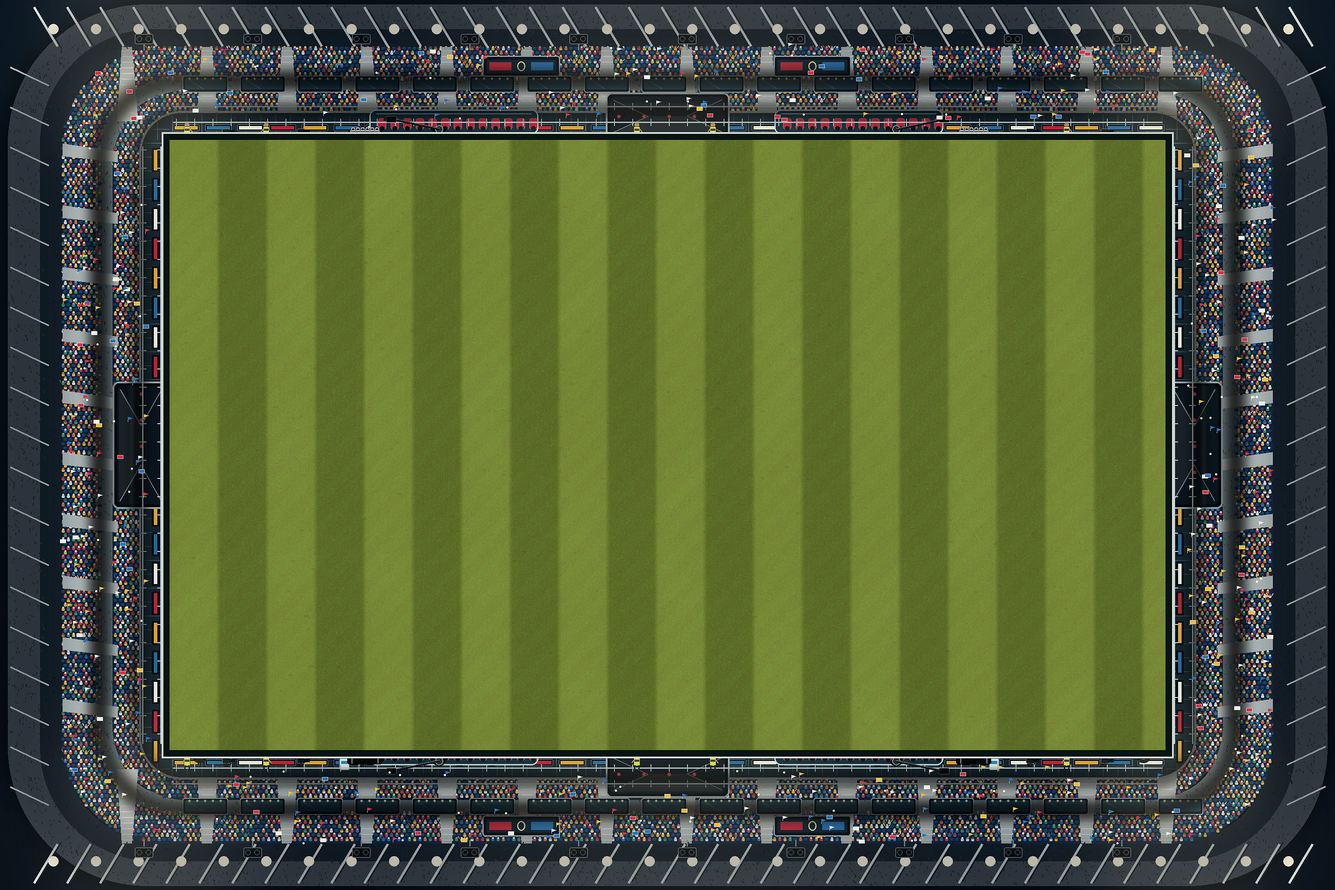
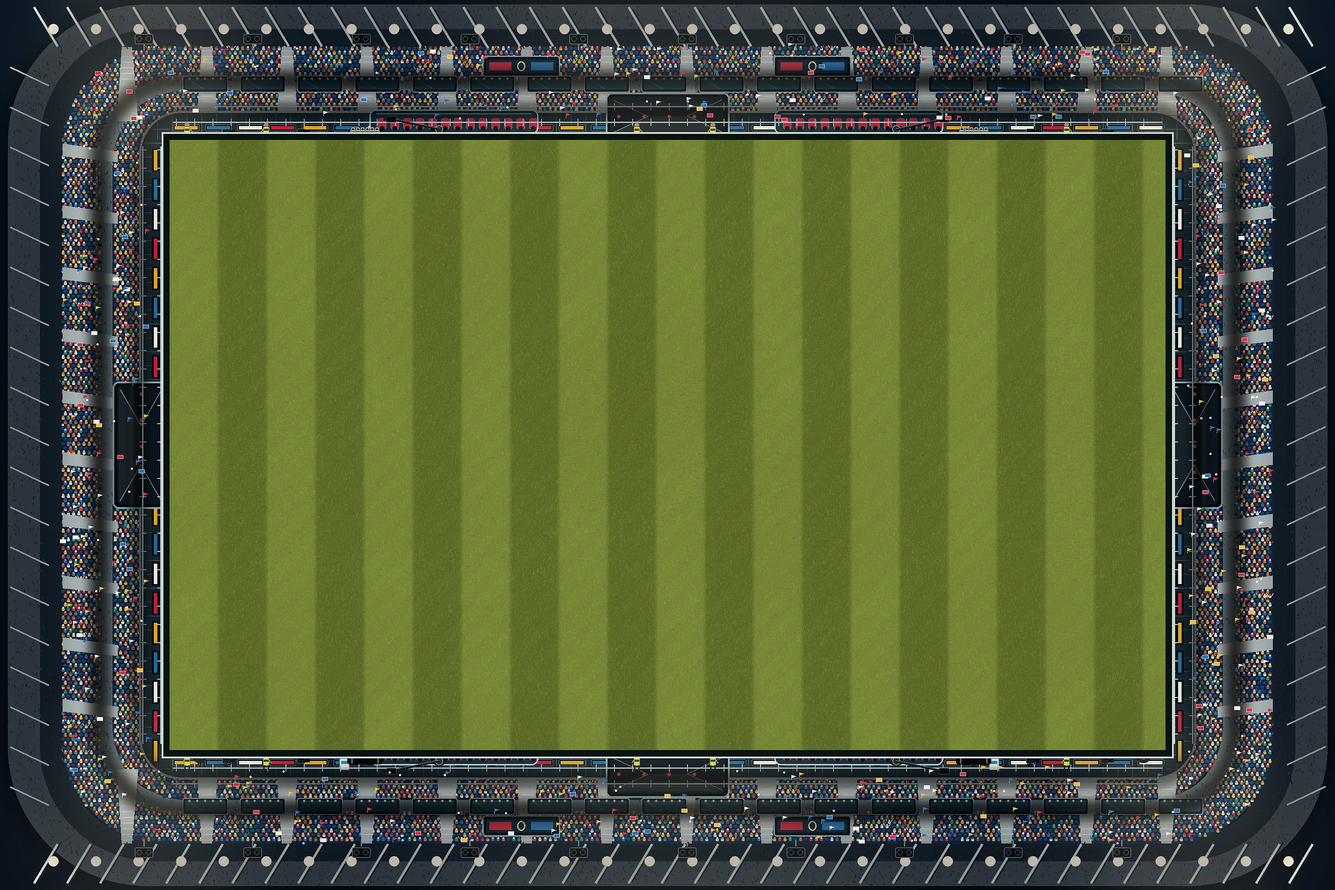
feat: add directional turf fibre detail

diff --git a/src/game/render.ts b/src/game/render.ts
@@ -831,6 +831,35 @@ export class Renderer {
     ctx.beginPath();
     ctx.arc(ARENA_W - 40 - 230, ARENA_H / 2, 150, Math.PI - Math.PI / 3.2, Math.PI + Math.PI / 3.2);
     ctx.stroke();
+
+    // A sparse upper nap makes the white paint belong to the grass instead of
+    // reading as a perfectly vector-clean HUD line. All marks are deterministic
+    // and stay sub-pixel at normal gameplay zoom.
+    const paintedFibre = (x: number, y: number, dx: number, dy: number): void => {
+      ctx.strokeStyle = 'rgba(255,255,246,0.20)';
+      ctx.lineWidth = 0.85;
+      ctx.beginPath();
+      ctx.moveTo(x, y);
+      ctx.lineTo(x + dx, y + dy);
+      ctx.stroke();
+    };
+    for (let y = 48; y < ARENA_H - 45; y += 29) {
+      const jitter = ((y * 17) % 9) - 4;
+      paintedFibre(40 + jitter * 0.18, y, jitter * 0.09, 3.8);
+      paintedFibre(ARENA_W - 40 + jitter * 0.16, y + 7, -jitter * 0.08, 3.4);
+      paintedFibre(ARENA_W / 2 + jitter * 0.12, y + 13, jitter * 0.06, 3.7);
+    }
+    for (let x = 48; x < ARENA_W - 45; x += 31) {
+      const jitter = ((x * 13) % 11) - 5;
+      paintedFibre(x, 40 + jitter * 0.12, 3.5, jitter * 0.08);
+      paintedFibre(x + 11, ARENA_H - 40 + jitter * 0.11, 3.8, -jitter * 0.07);
+    }
+    for (let angle = 0; angle < TAU; angle += 0.17) {
+      const radius = 190 + ((Math.floor(angle * 100) * 7) % 5) - 2;
+      const x = ARENA_W / 2 + Math.cos(angle) * radius;
+      const y = ARENA_H / 2 + Math.sin(angle) * radius;
+      paintedFibre(x, y, Math.cos(angle + 0.34) * 3.2, Math.sin(angle + 0.34) * 3.2);
+    }
     ctx.shadowColor = 'transparent';
     ctx.shadowBlur = 0;
     ctx.shadowOffsetY = 0;

diff --git a/scripts/generate_world_cup_arenas.py b/scripts/generate_world_cup_arenas.py
@@ -498,8 +498,8 @@ def _grass_texture(style: str, seed: int) -> Image.Image:
         # Measured from the approved olive broadcast-pitch reference. The
         # red/blue balance is intentionally warmer and less neon than generic
         # game grass; 112px runtime-source bands reproduce its tighter cadence.
-        dark = (93, 108, 42)
-        light = (119, 135, 57)
+        dark = (94, 109, 43)
+        light = (118, 134, 56)
         band = 112
 
     is_showpiece = style == "showpiece"
@@ -537,7 +537,10 @@ def _grass_texture(style: str, seed: int) -> Image.Image:
 
     draw = ImageDraw.Draw(turf, "RGBA")
     # Micro-blades, clippings and roller sheen create actual ground contact detail.
-    for _ in range(75_000):
+    # Showpiece reserves part of this noise budget for the directional fibre
+    # layer below; stacking both at full density would collapse into grey mush.
+    micro_blade_count = 42_000 if is_showpiece else 75_000
+    for _ in range(micro_blade_count):
         x = rng.randrange(width)
         y = rng.randrange(height)
         length = rng.choice((1, 1, 2, 2, 3))
@@ -571,28 +574,98 @@ def _grass_texture(style: str, seed: int) -> Image.Image:
         # avoid the single-noise-layer look of a procedural texture.
         detail = Image.new("RGBA", (width, height))
         detail_draw = ImageDraw.Draw(detail, "RGBA")
-        # Fine roller nap follows the mowing direction inside every band.
-        for stripe_x in range(0, width, band):
-            direction = 1 if (stripe_x // band) % 2 == 0 else -1
-            for x in range(stripe_x + 5, min(width, stripe_x + band), 11):
+        # Individual blades are distributed on a jittered grid rather than
+        # pasted from a tile. Their lean flips with the mower band and every
+        # blade gets a tiny contact shadow plus a distinct lit edge. At runtime
+        # this survives WebP scaling as short fibres, not uniform image noise.
+        fibre_step = 8
+        for cell_y in range(0, height, fibre_step):
+            for cell_x in range(0, width, fibre_step):
+                if rng.random() > 0.78:
+                    continue
+                x = cell_x + rng.randrange(fibre_step)
+                y = cell_y + rng.randrange(fibre_step)
+                stripe_index = x // band
+                lean = 1 if stripe_index % 2 == 0 else -1
+                blade_length = rng.choice((4, 4, 5, 5, 6, 6, 7, 8))
+                bend = lean * rng.choice((0, 1, 1, 1, 2)) + rng.choice((-1, 0, 0, 0, 1))
+                blade_alpha = rng.randrange(28, 56)
                 detail_draw.line(
-                    (x, 0, x + direction * 19, height),
-                    fill=(210, 219, 142, 6),
+                    (x + 1, y + 1, x + bend + 1, y + blade_length + 1),
+                    fill=(31, 40, 10, round(blade_alpha * 0.58)),
                     width=1,
                 )
-        # Groundskeeper seams, dew flecks and clipped blade clusters.
+                detail_draw.line(
+                    (x, y, x + bend, y + blade_length),
+                    fill=(215, 220, 134, blade_alpha),
+                    width=1,
+                )
+                detail_draw.point((x, y), fill=(37, 46, 12, min(75, blade_alpha + 7)))
+                if blade_length >= 6 and rng.random() < 0.42:
+                    detail_draw.point((x + bend, y + blade_length), fill=(235, 235, 174, min(78, blade_alpha + 15)))
+
+        # Irregular two-to-four-blade tufts break the uniform cut without
+        # becoming gameplay-sized decals or repeated texture islands.
+        for _ in range(10_500):
+            x = rng.randrange(5, width - 5)
+            y = rng.randrange(5, height - 7)
+            lean = 1 if (x // band) % 2 == 0 else -1
+            base_alpha = rng.randrange(18, 38)
+            for blade in range(rng.choice((2, 2, 3, 3, 4))):
+                root_x = x + blade - 1
+                blade_length = rng.randrange(3, 8)
+                tip_x = root_x + lean * rng.choice((0, 1, 1, 2)) + rng.choice((-1, 0, 1))
+                detail_draw.line(
+                    (root_x, y, tip_x, y + blade_length),
+                    fill=(188 + rng.randrange(0, 22), 196 + rng.randrange(0, 19), 105 + rng.randrange(0, 22), base_alpha),
+                    width=1,
+                )
+
+        # Traffic zones alter individual fibres rather than painting soft
+        # brown blobs. Goal mouths and the centre lane contain flattened blades,
+        # shallow boot cuts and a few fresh upright tips at their edges.
+        traffic_zones = (
+            (width // 2, height // 2, 330, 190, 1_700),
+            (205, height // 2, 190, 300, 1_250),
+            (width - 205, height // 2, 190, 300, 1_250),
+        )
+        for cx, cy, rx, ry, count in traffic_zones:
+            for _ in range(count):
+                angle = rng.random() * TAU
+                radial = math.sqrt(rng.random())
+                x = round(cx + math.cos(angle) * rx * radial)
+                y = round(cy + math.sin(angle) * ry * radial)
+                flattened_length = rng.randrange(5, 14)
+                flattened_dir = -1 if rng.random() < 0.5 else 1
+                detail_draw.line(
+                    (x, y, x + flattened_length * flattened_dir, y + rng.choice((-2, -1, 0, 0, 1, 2))),
+                    fill=(47, 54, 14, rng.randrange(15, 35)),
+                    width=1,
+                )
+                if rng.random() < 0.42:
+                    detail_draw.point((x, y - 1), fill=(224, 220, 145, rng.randrange(16, 35)))
+            for _ in range(count // 18):
+                angle = rng.random() * TAU
+                radial = math.sqrt(rng.random())
+                x = round(cx + math.cos(angle) * rx * radial)
+                y = round(cy + math.sin(angle) * ry * radial)
+                cut_length = rng.randrange(4, 10)
+                detail_draw.line((x, y, x + cut_length, y + 2), fill=(38, 43, 11, rng.randrange(18, 38)), width=1)
+                detail_draw.line((x + 1, y - 1, x + cut_length - 1, y + 1), fill=(197, 193, 113, rng.randrange(9, 22)), width=1)
+
+        # Groundskeeper seams, dew flecks and clipped blade fragments.
         for y in range(0, height, 87):
             detail_draw.line((0, y, width, y + 9), fill=(227, 231, 170, 6), width=1)
-        for _ in range(145_000):
+        for _ in range(58_000):
             x = rng.randrange(width)
             y = rng.randrange(height)
             if rng.random() < 0.72:
-                c = (218, 226, 148, rng.randrange(6, 21))
+                c = (218, 226, 148, rng.randrange(7, 23))
             else:
-                c = (44, 57, 16, rng.randrange(7, 23))
+                c = (44, 57, 16, rng.randrange(8, 25))
             length = rng.choice((1, 1, 2, 2, 3, 4))
             detail_draw.line((x, y, x + rng.choice((-1, 0, 1)), y + length), fill=c, width=1)
-        for _ in range(3_800):
+        for _ in range(5_600):
             x = rng.randrange(width)
             y = rng.randrange(height)
             detail_draw.ellipse((x - 1, y - 1, x + 2, y + 1), fill=(231, 231, 170, rng.randrange(7, 20)))
